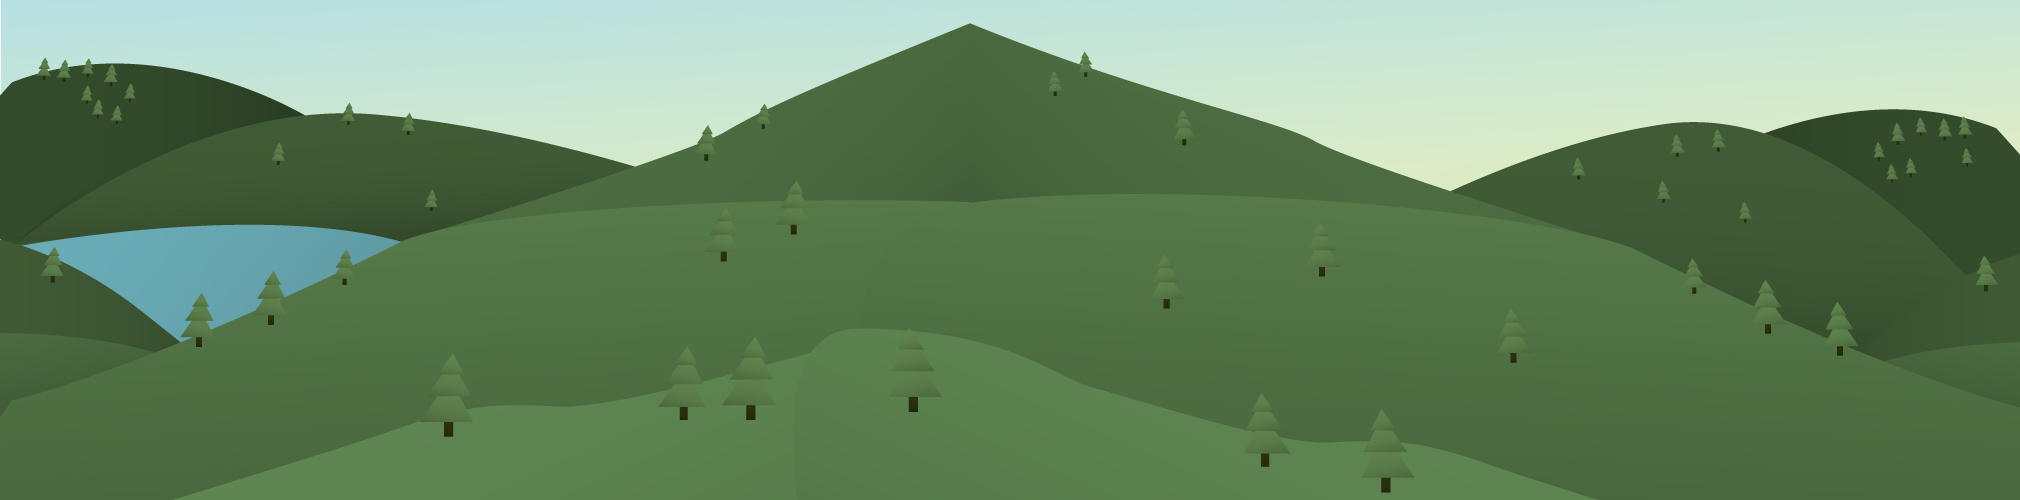
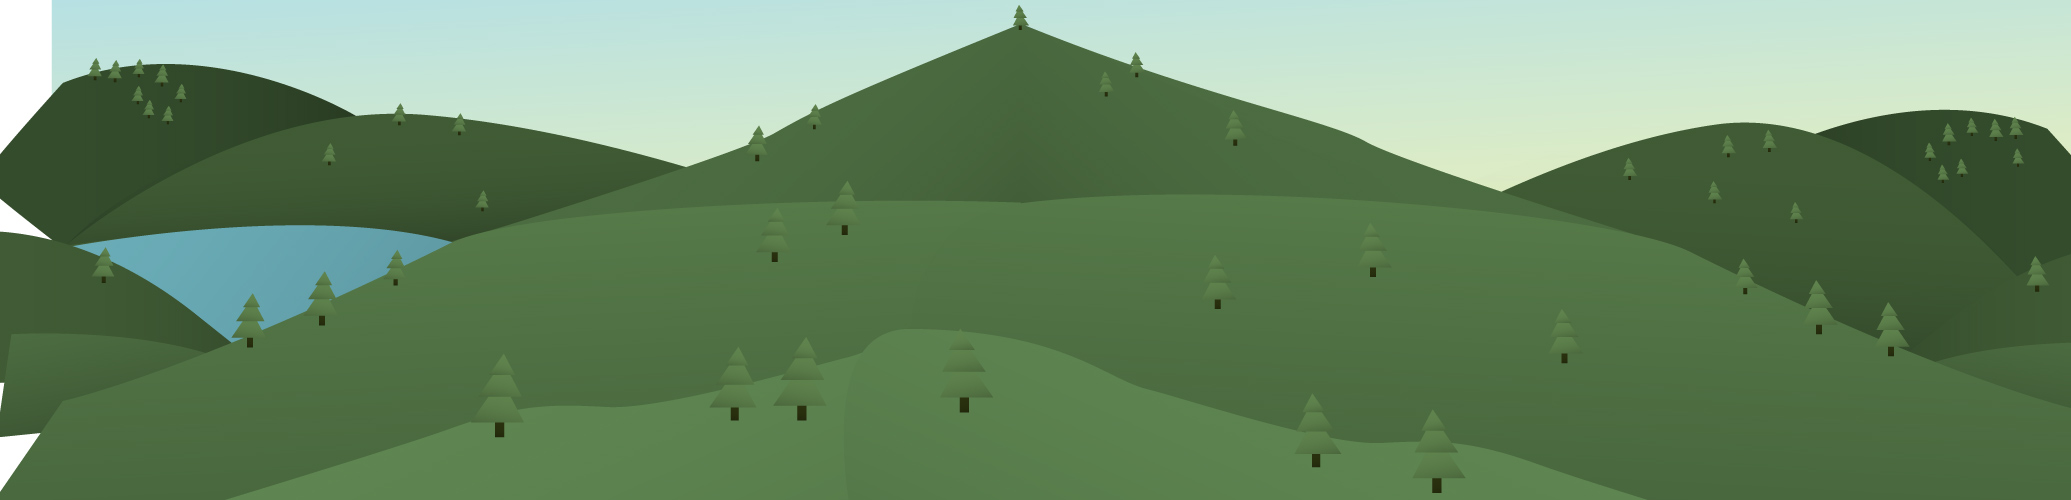
Extended background, fixed a couple of variable bugs

diff --git a/public/js/animation.js b/public/js/animation.js
@@ -9,6 +9,7 @@ var wave = 0,
 	jiggleTheirs = false,
 	change = false,
 	jumpOut = false,
+	jumpIn = false,
 	theirs;
 
 function animateEyes(critter) {
@@ -622,7 +623,7 @@ function jumpInScene() {
 			break;
 		}
 	}
-	
+			
 	if (legs === 'short' && body === 'simple') {
 		var maxHigh = 185;
 		var maxLow = 140;
@@ -651,7 +652,6 @@ function jumpInScene() {
 
 function tick() {
 	var yours = critterApp.yours();
-	//if (theirs) console.log(theirs.getContainer().x, jumpIn);
 	//only animate some of the time
 	if (Math.round(Math.random()*40) === 4) { //http://xkcd.com/221/
 		animateEyes(yours.getContainer());
@@ -674,7 +674,7 @@ function tick() {
 			theirs.getContainer().children[0].skewX += 1;
 		}
 		
-		if (theirs.getContainer().x > 100 && !jumpOut && !jumpIn && !hugFriend) theirs.getContainer().x -= 10;
+		if (theirs.getContainer().x > 20 && !jumpOut && !jumpIn && !hugFriend) theirs.getContainer().x -= 10;
 
 		if (theirs.getContainer().y < theirs.getContainer().targetY && !jumpOut && !jumpIn) theirs.getContainer().y += 10;
 		

diff --git a/public/js/your-critter.js b/public/js/your-critter.js
@@ -392,6 +392,7 @@ function build(crit, destination, container) {
 										var tail = new BitmapAnimation(sheet);
 										tail.x = 156;
 										tail.y = 270;
+										if (legs.name === 'long' && body.name === 'simple')  tail.y = 190;
 										if (legs.name === 'short') {
 											tail.y = 210;
 											tail.x = 220;
@@ -553,7 +554,6 @@ function build(crit, destination, container) {
 						accessory.x = 46;
 						accessory.y = 180;
 						accessory.rotation = -36.2;
-						if (legs.name === 'long' && body.children[0].name === 'simple') accessory.y = 130; 
 					}
 					if (ears) {
 						ears.x = -95;
@@ -713,7 +713,7 @@ function build(crit, destination, container) {
 					container.onClick = function() {
 						container.id === 7 ? jiggle = true : jiggleTheirs = true;
 					};
-												
+					
 				    Ticker.useRAF = true;				    
 					Ticker.addListener(window);
 					Ticker.setFPS(40);

diff --git a/public/css/aestheti.css b/public/css/aestheti.css
@@ -245,9 +245,6 @@ canvas {
 .friend {
 	margin: 0 10px;
 	list-style: none;
-}
-
-.friend .username {
 	cursor: pointer;
 }
 
